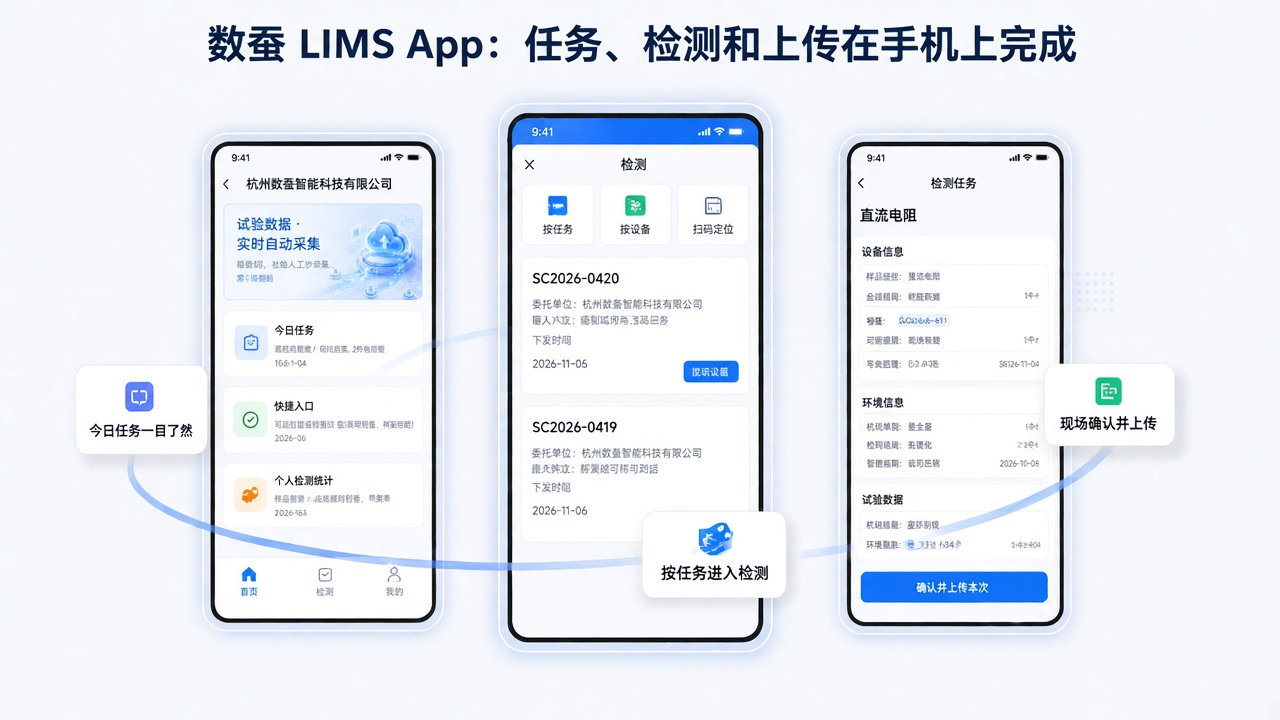
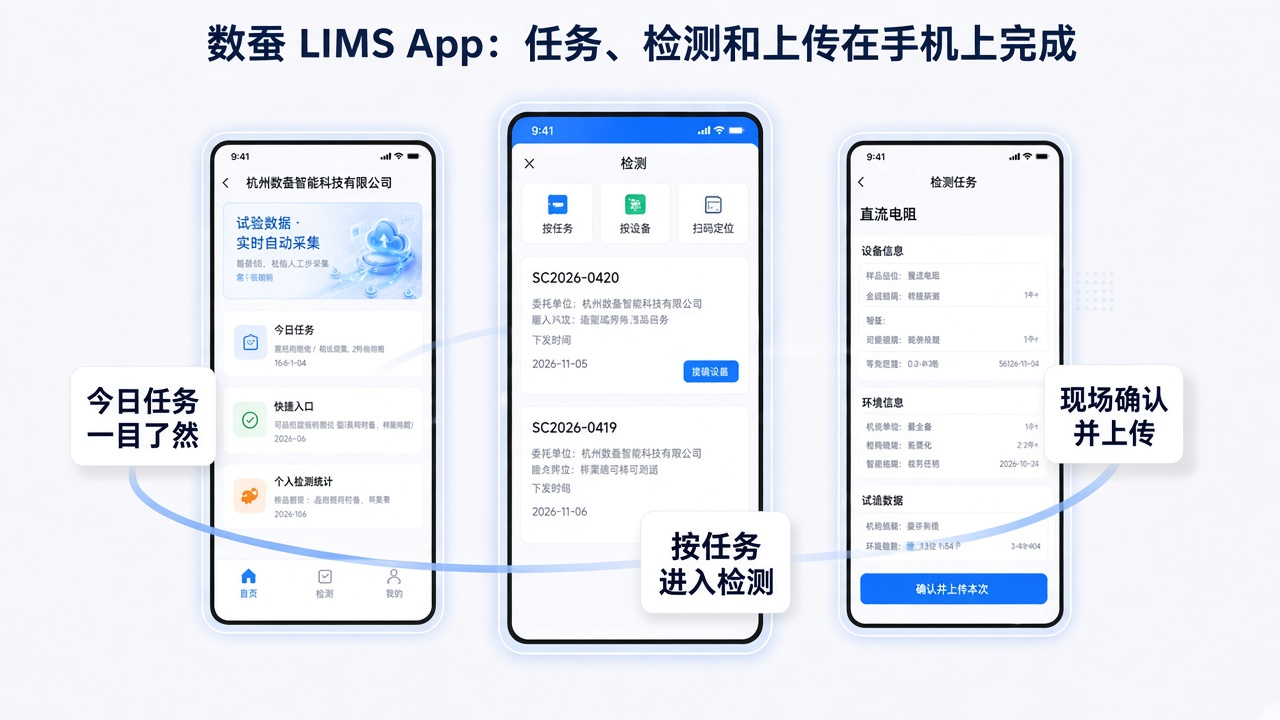
fix: 改写移动端优势文案并放大宣传图标注
用现场办理的优势说明替换“两个 App 分工不同”。两张宣传图对调，标注放大，报告标注改为手机可查看下载报告。

diff --git a/shucan-lims-brochure.html b/shucan-lims-brochure.html
@@ -1064,15 +1064,15 @@
         <article class="card adv" style="margin-top:14px">
           <span class="idx">08</span>
           <h3>移动端配套 LIMS App 和数据采集 App</h3>
-          <p>手机上有两个 App，分工不同。</p>
+          <p>形态不只网页。人在样品旁边就能接任务、录数据、查进度，报告也能在手机上查看和下载，不用回到办公室再补一遍。</p>
           <div class="app-shots">
+            <figure>
+              <img src="assets/brochure/08-collect-app.jpg" alt="数蚕数据采集 App 宣传示意，应用入口、委托查询和报告编制三个页面" />
+              <figcaption class="cap">数据采集 App：从应用中心进入，查询委托，手机可查看下载报告。</figcaption>
+            </figure>
             <figure>
               <img src="assets/brochure/07-lims-app.jpg" alt="数蚕 LIMS App 宣传示意，首页、检测列表和检测任务三个页面" />
               <figcaption class="cap">LIMS App：今日任务、按任务检测、现场确认并上传。</figcaption>
-            </figure>
-            <figure>
-              <img src="assets/brochure/08-collect-app.jpg" alt="数蚕数据采集 App 宣传示意，应用入口、委托查询和报告编制三个页面" />
-              <figcaption class="cap">数据采集 App：从应用中心进入，查询委托，在手机上生成报告。</figcaption>
             </figure>
           </div>
         </article>
